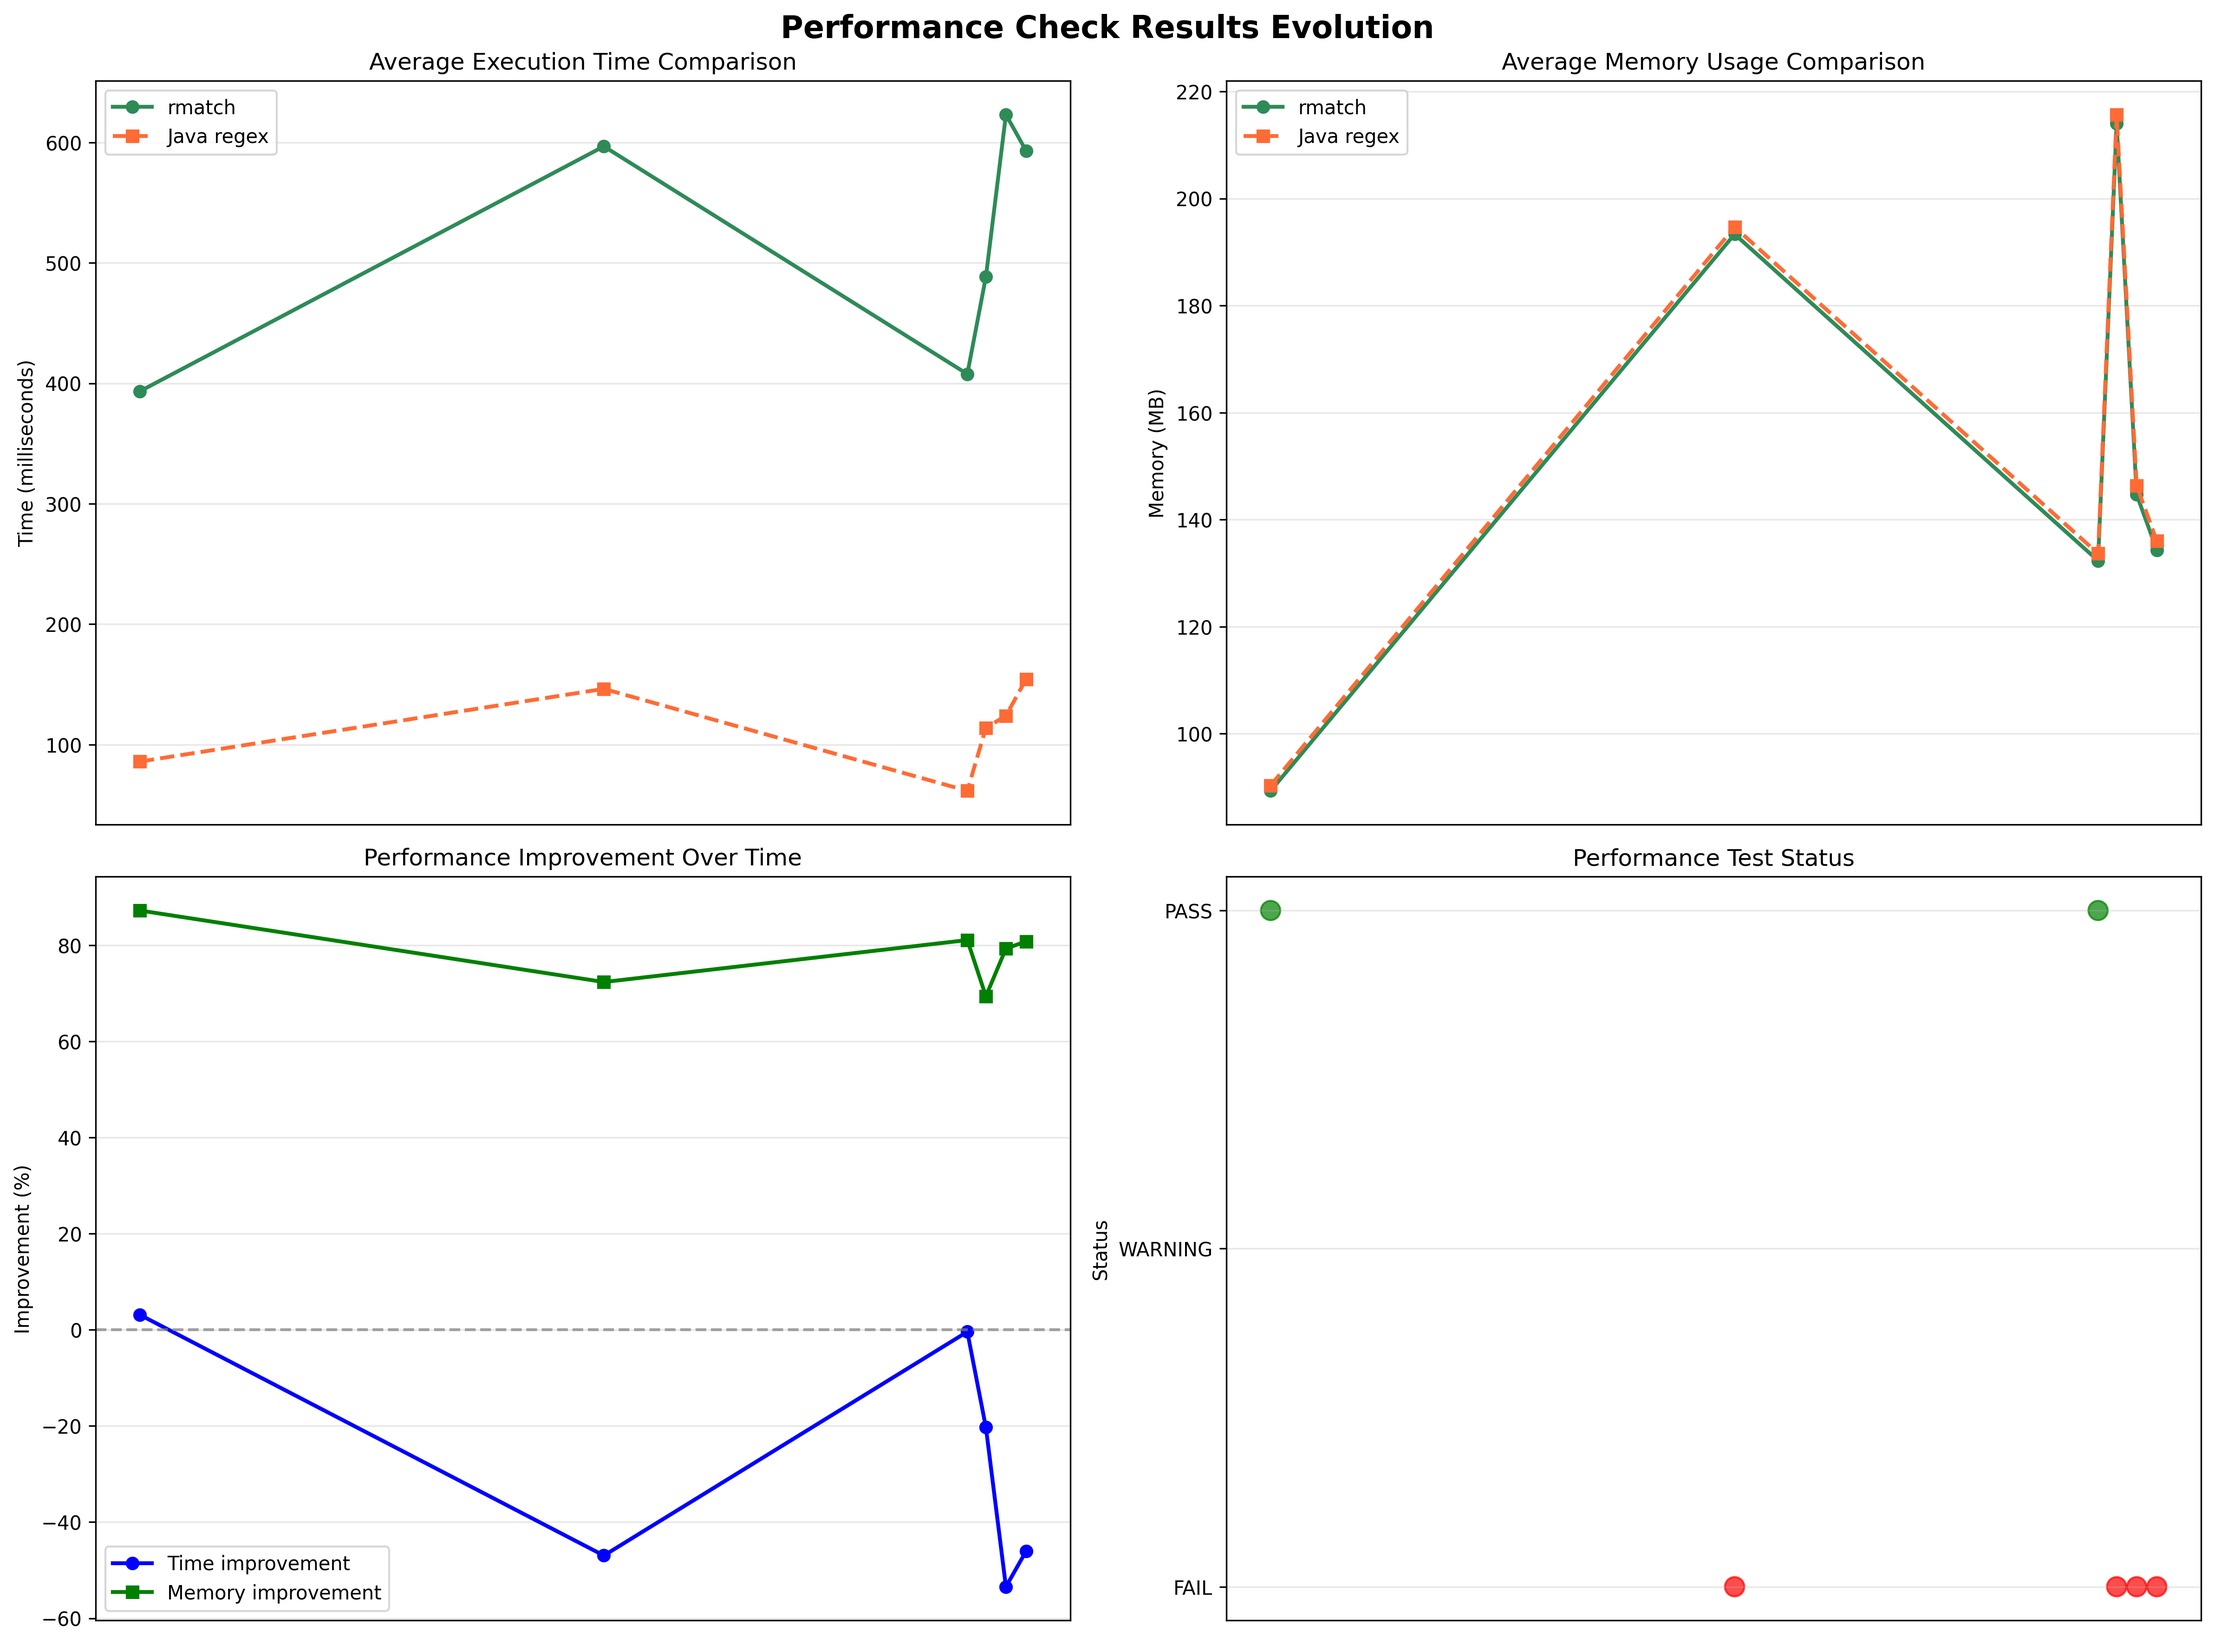
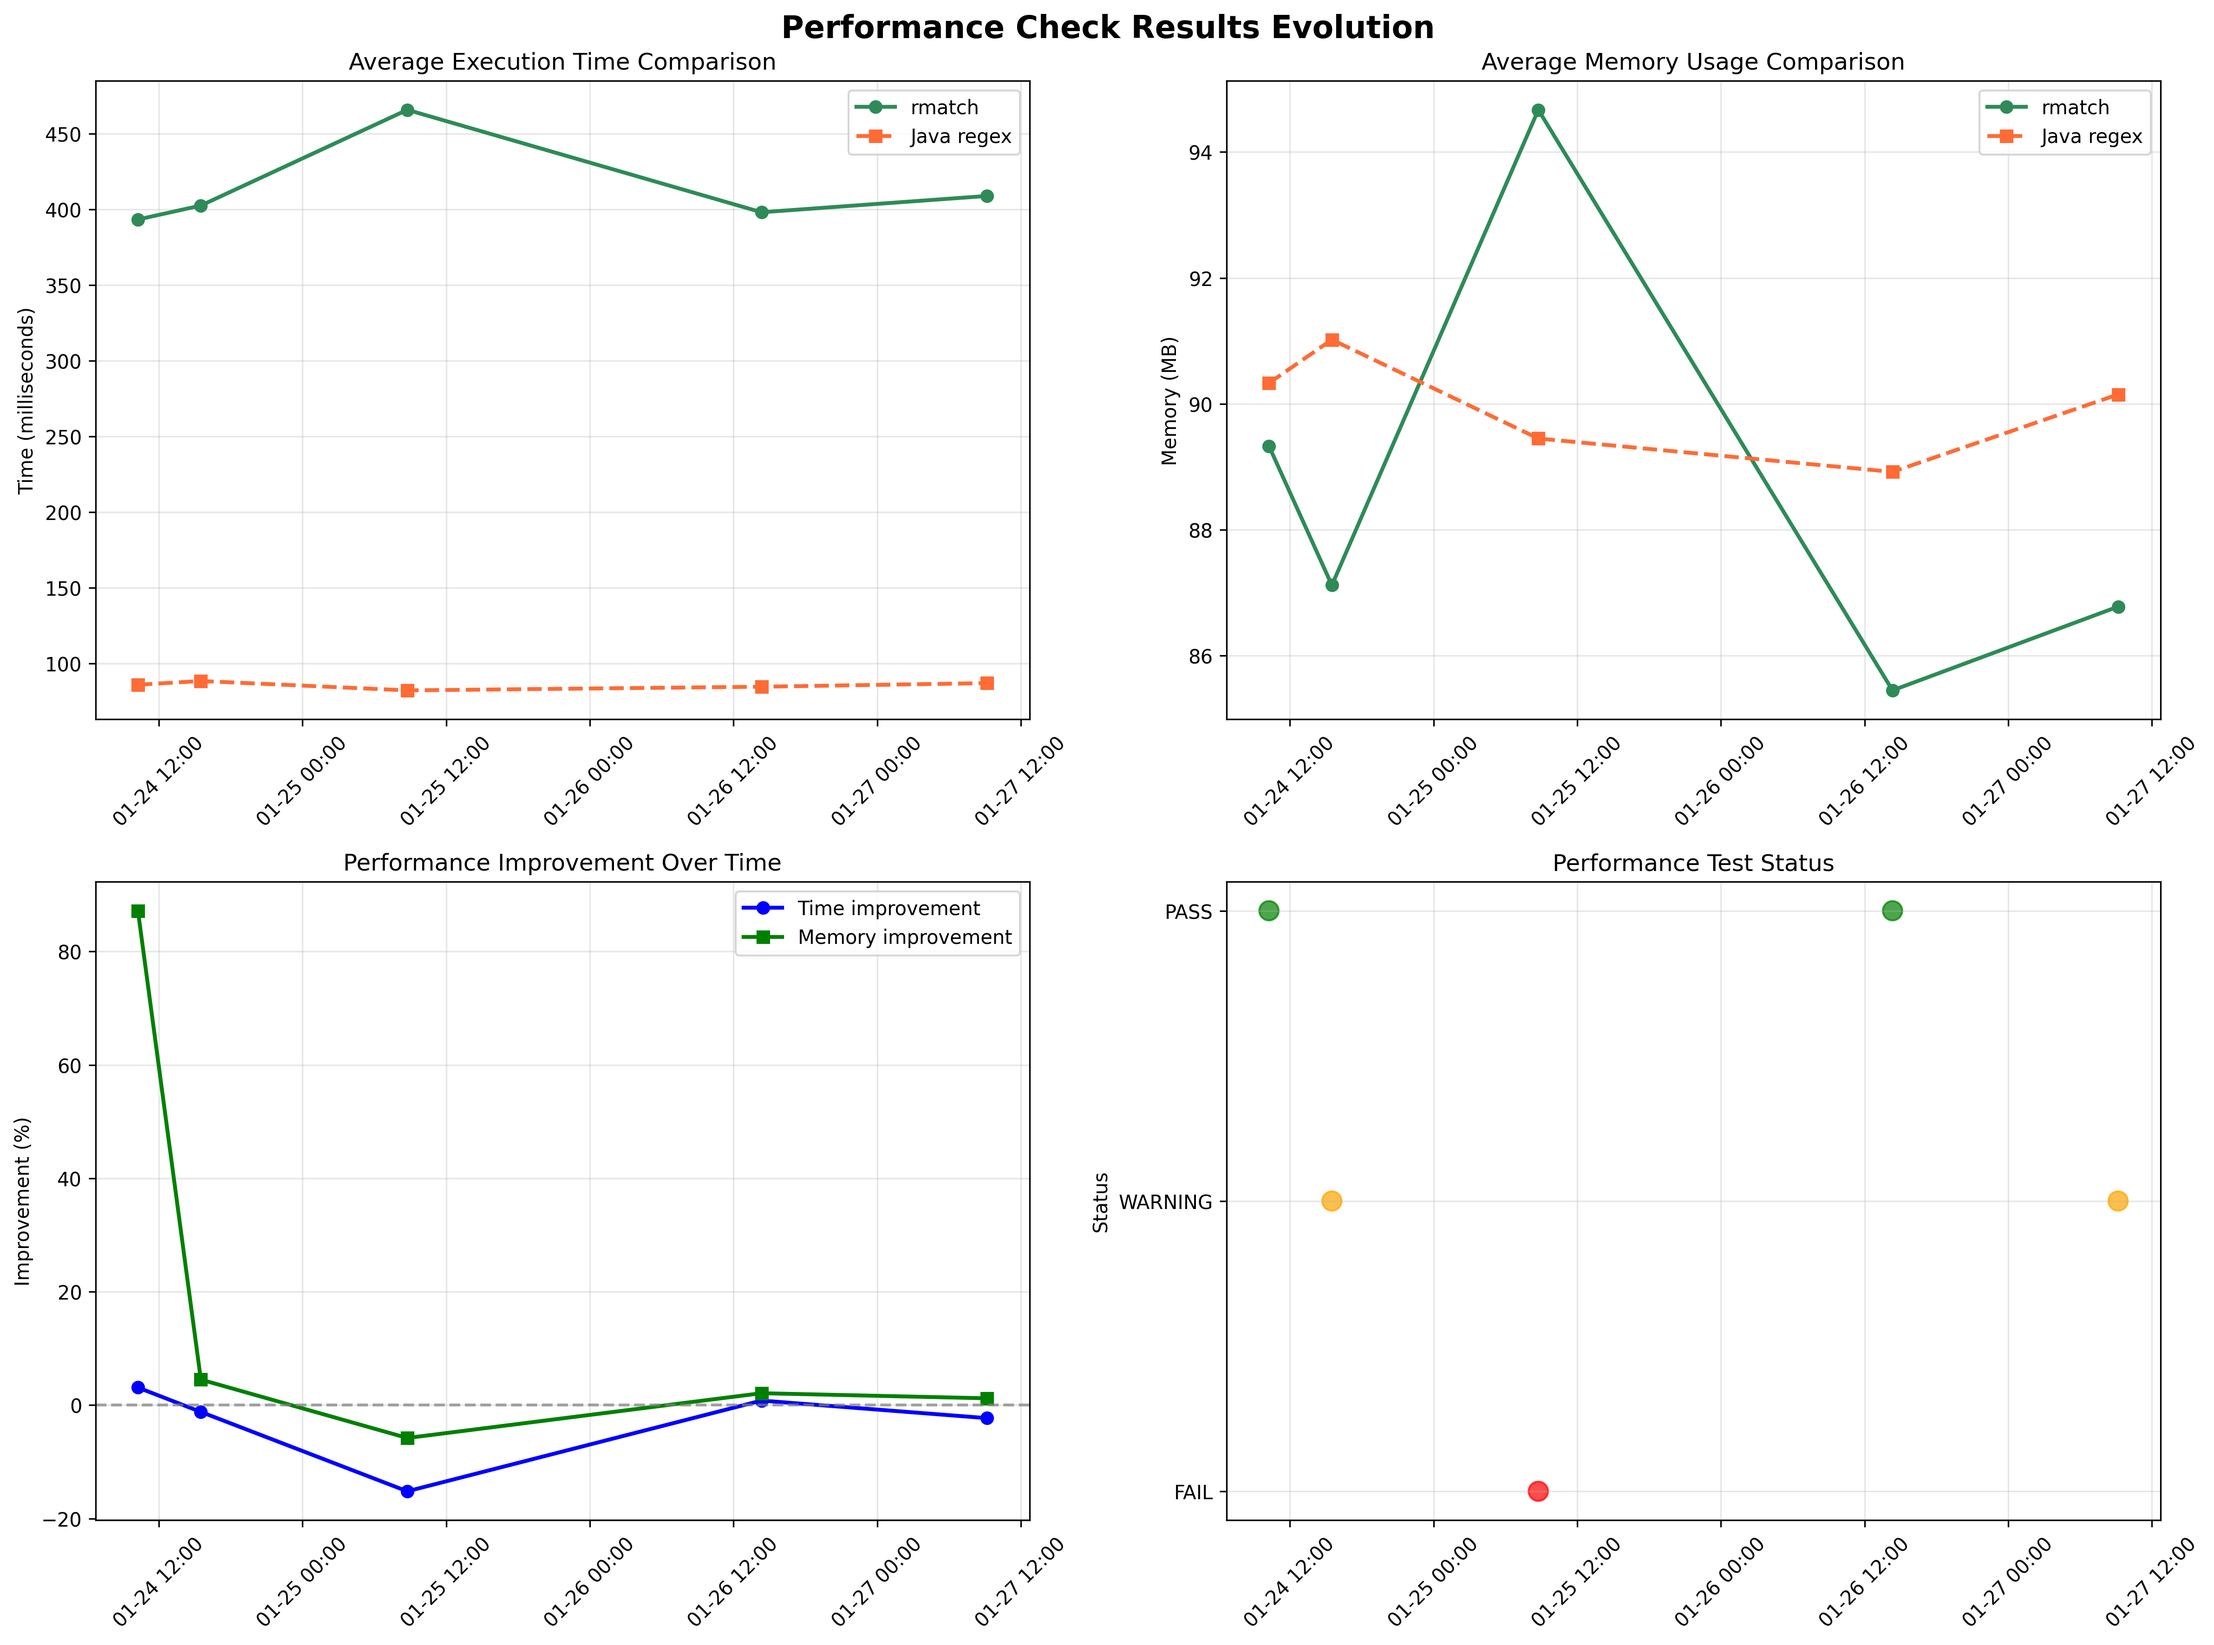
Add improved date/time formatting for recent performance charts

diff --git a/scripts/generate_performance_charts.py b/scripts/generate_performance_charts.py
@@ -175,7 +175,7 @@ def create_performance_check_chart(df, output_dir):
             ax1.set_ylabel('Time (milliseconds)')
             ax1.legend()
             ax1.grid(True, alpha=0.3)
-            format_time_axis(ax1)
+            format_recent_time_axis(ax1)
     
     # 2. Memory usage comparison
     if 'rmatch_avg_memory_mb' in df.columns and 'java_avg_memory_mb' in df.columns:
@@ -189,7 +189,7 @@ def create_performance_check_chart(df, output_dir):
             ax2.set_ylabel('Memory (MB)')
             ax2.legend()
             ax2.grid(True, alpha=0.3)
-            format_time_axis(ax2)
+            format_recent_time_axis(ax2)
     
     # 3. Performance improvement percentages
     if 'time_improvement_percent' in df.columns and 'memory_improvement_percent' in df.columns:
@@ -208,7 +208,7 @@ def create_performance_check_chart(df, output_dir):
             ax3.set_ylabel('Improvement (%)')
             ax3.legend()
             ax3.grid(True, alpha=0.3)
-            format_time_axis(ax3)
+            format_recent_time_axis(ax3)
     
     # 4. Test status over time
     if 'status' in df.columns:
@@ -227,7 +227,7 @@ def create_performance_check_chart(df, output_dir):
             ax4.set_yticks([-1, 0, 1])
             ax4.set_yticklabels(['FAIL', 'WARNING', 'PASS'])
             ax4.grid(True, alpha=0.3)
-            format_time_axis(ax4)
+            format_recent_time_axis(ax4)
     
     plt.tight_layout()
     
@@ -292,7 +292,7 @@ def create_comparison_overview_chart(df, output_dir):
             ax.set_ylabel('Performance Ratio (lower is better)', fontsize=12)
             ax.legend(['Trend', 'Parity', 'PASS', 'WARNING', 'FAIL'], fontsize=11)
             ax.grid(True, alpha=0.3)
-            format_time_axis(ax)
+            format_recent_time_axis(ax)
             
             # Add some styling
             ax.spines['top'].set_visible(False)
@@ -478,6 +478,16 @@ def format_time_axis(ax):
     ax.xaxis.set_major_locator(mdates.MonthLocator(interval=2))
     plt.setp(ax.xaxis.get_majorticklabels(), rotation=45)
 
+def format_recent_time_axis(ax):
+    """Format time axis for recent performance data with date and time information."""
+    # For recent performance data, show date and time for better granularity
+    # Use a more detailed format that includes both date and time
+    ax.xaxis.set_major_formatter(mdates.DateFormatter('%m-%d %H:%M'))
+    ax.xaxis.set_major_locator(mdates.AutoDateLocator())
+    ax.xaxis.set_minor_locator(mdates.AutoDateLocator(interval_multiples=False))
+    plt.setp(ax.xaxis.get_majorticklabels(), rotation=45)
+    ax.grid(True, alpha=0.3, which='both')
+
 def main():
     """Main function to generate performance charts."""
     print("Starting performance chart generation...")
@@ -585,7 +595,7 @@ def create_combined_summary_chart(comprehensive_df, performance_check_df, output
             ax2.set_ylabel('Performance Ratio')
             ax2.legend()
             ax2.grid(True, alpha=0.3)
-            format_time_axis(ax2)
+            format_recent_time_axis(ax2)
     
     plt.tight_layout()
     
